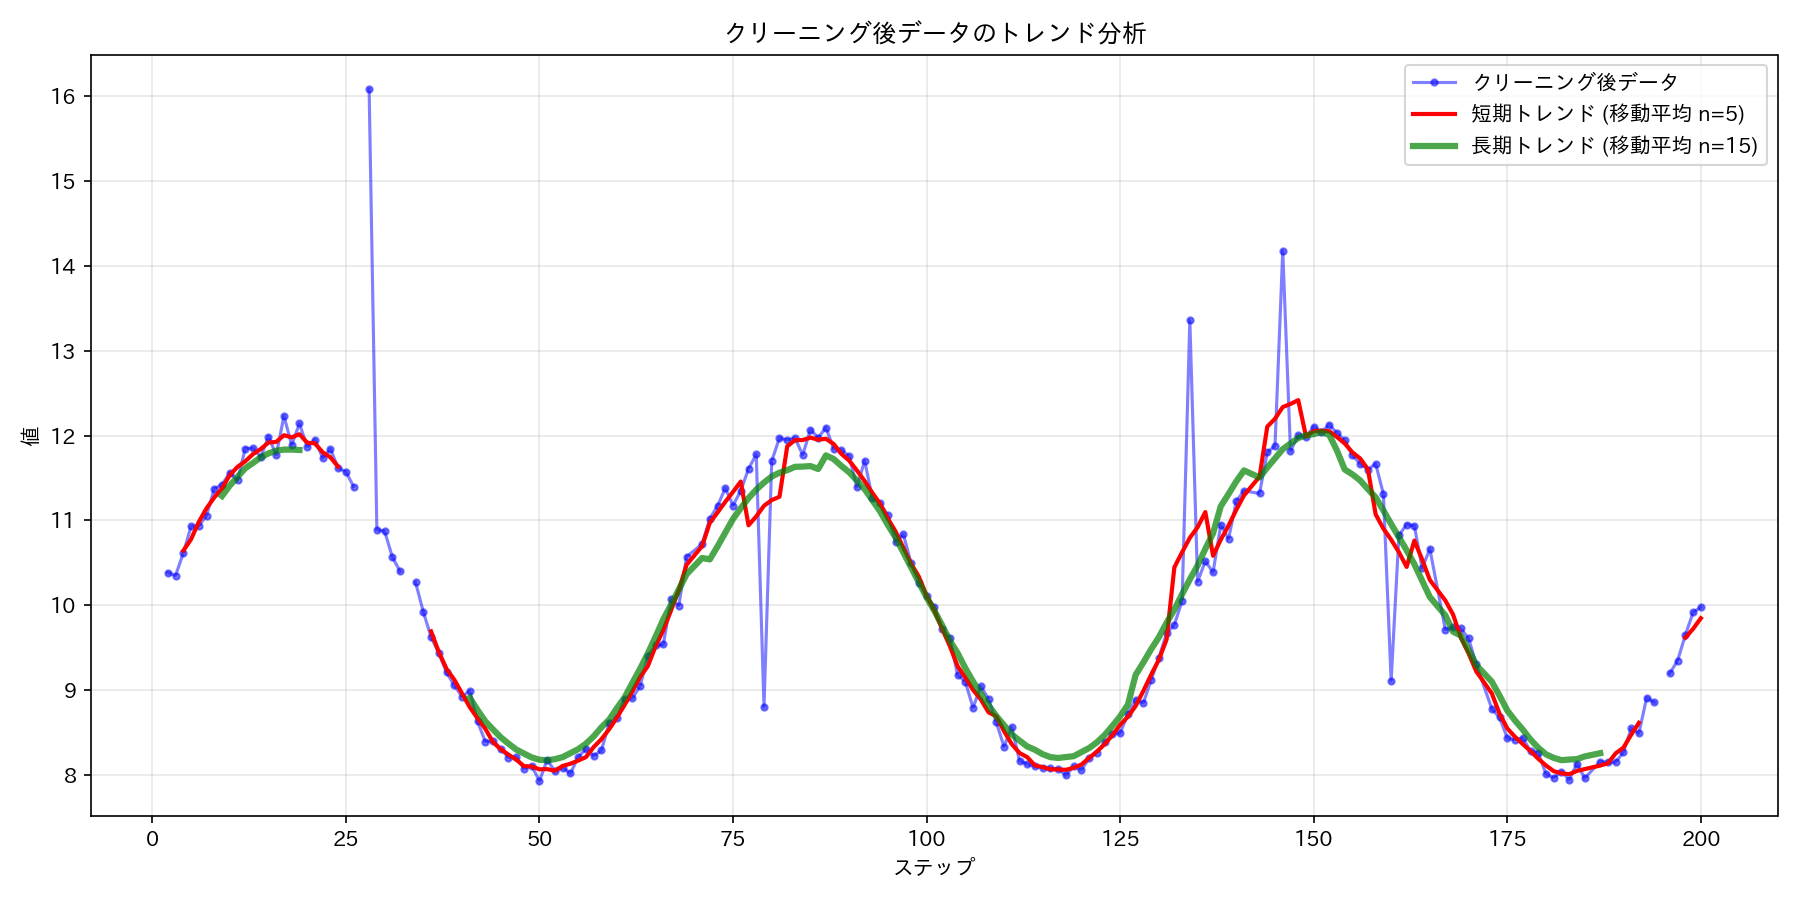
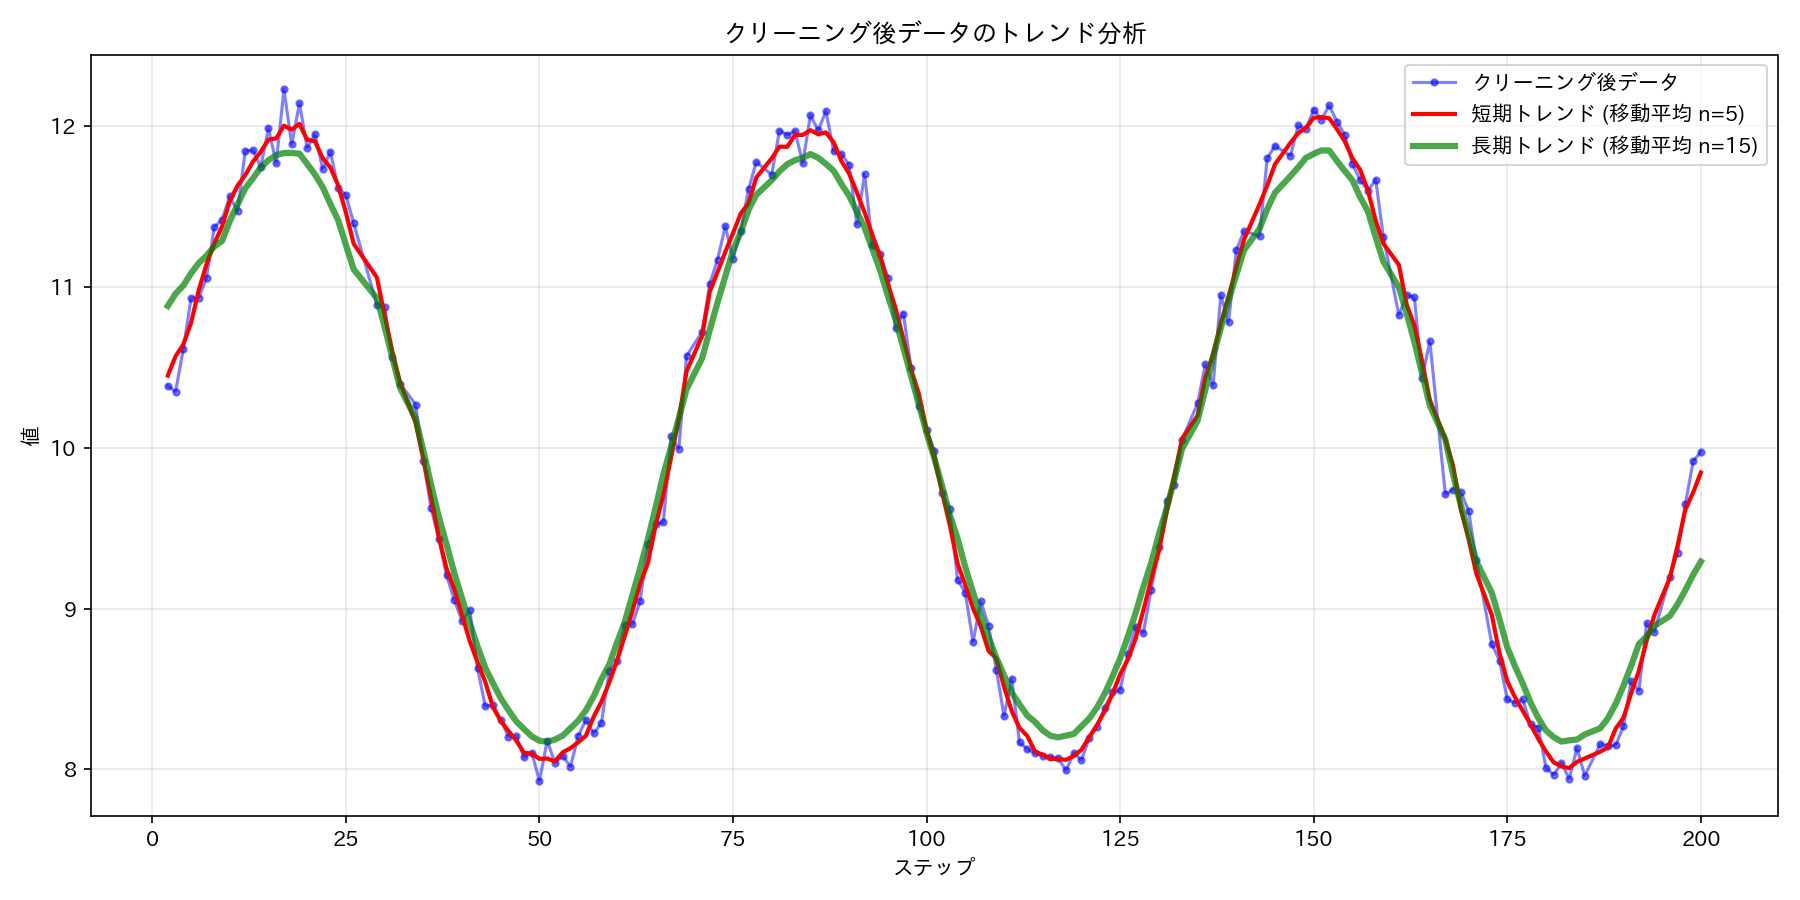
refactor: Update filter functions to handle NaN values and improve documentation

diff --git a/examples/advance/01_outlier_analysis_visualization.py b/examples/advance/01_outlier_analysis_visualization.py
@@ -46,7 +46,7 @@ def create_sample_data_with_outliers(
     """異常値を含むサンプルデータを生成します
 
     正弦波をベースに、指定された割合でランダムな位置に異常値を挿入します。
-    また、一部のデータにはNone値（欠損値）も挿入します。
+    また、一部のデータにはnp.nan値（欠損値）も挿入します。
 
     Args:
         size: データのサイズ
@@ -79,11 +79,11 @@ def create_sample_data_with_outliers(
                 amplitude + np.random.rand() * amplitude * 2
             )  # 下側の異常値
 
-    # 一部にNone値（欠損値）を入れる
+    # 一部にnp.nan値（欠損値）を入れる
     none_indices = np.random.choice(size, int(size * 0.02), replace=False)
     for idx in none_indices:
-        if idx not in outlier_indices:  # 異常値とNone値が重複しないようにする
-            data[idx] = None
+        if idx not in outlier_indices:  # 異常値とnp.nan値が重複しないようにする
+            data[idx] = np.nan
 
     return data.tolist(), outlier_indices
 
@@ -142,11 +142,20 @@ print(f"- 移動平均(window=21)の最初の5件: {result1['ma21'].values[:5]}"
 # ----------------------------------------------------
 print("\n3. 異常値の検出と可視化")
 
+# NaN値が含まれる場合、事前にfilter_out_noneでフィルタリング
+filtered_collection = collection1.ops.filter_out_none(columns=["data"]).end()
+
+print(f"- 元データの行数: {len(collection1)}")
+print(f"- NaN値除去後の行数: {len(filtered_collection)}")
+print(
+    f"- 除去されたNaN値のデータポイント数: {len(collection1) - len(filtered_collection)}"
+)
+
 # デバッグ情報を追加
 print("\n--- デバッグ情報 ---")
-print(f"データサイズ: {len(collection1['data'].values)}")
+print(f"データサイズ: {len(filtered_collection['data'].values)}")
 print(
-    f"None値の数: {collection1['data'].values.count(None) if collection1['data'].values.count(None) is not None else 0}"
+    f"None値の数: {filtered_collection['data'].values.count(None) if filtered_collection['data'].values.count(None) is not None else 0}"
 )
 
 # 2つの異なるしきい値で異常値を可視化
@@ -159,7 +168,7 @@ ax2 = plt.subplot(2, 1, 2)  # 2つ目のサブプロット
 # 厳しいしきい値と緩いしきい値で異常値検出を行う
 # メソッドチェーンを使用し、axパラメータを渡してplt.showを自動呼び出しさせない
 result_vis = (
-    collection1.ops
+    filtered_collection.ops.filter_out_none(columns=["data"])  # NaN値を除去
     # 最初のサブプロットに厳しいしきい値での可視化
     .visualize_outliers(
         column="data",
@@ -175,7 +184,7 @@ result_vis = (
     .visualize_outliers(
         column="data",
         window_size=15,
-        threshold=0.7,  # 緩いしきい値
+        threshold=0.9,  # 緩いしきい値
         plot_type="line",
         highlight_color="orange",
         outlier_marker="^",
@@ -212,11 +221,15 @@ print(f"- 検出された異常値の数（緩いしきい値）: {loose_outlier
 print("\n4. 異常値の除去と効果の確認")
 
 # 異常値を除去（データセット2を使用）
-result_with_removal = collection2.ops.remove_outliers(
-    column="data",
-    window_size=15,
-    threshold=0.3,
-).end()
+result_with_removal = (
+    collection2.ops.filter_out_none(columns=["data"])
+    .remove_outliers(
+        column="data",
+        window_size=15,
+        threshold=0.1,
+    )
+    .end()
+)
 
 # 除去後のデータ数を確認
 print(f"- 元データの行数: {len(collection2)}")
@@ -392,14 +405,14 @@ ax2 = plt.subplot(2, 1, 2)  # 非対称エッジ処理用
 # 対称および非対称エッジ処理を1つのチェーンで比較
 # axを渡すことでplt.showは呼び出されない
 comparison_result = (
-    collection2.ops
+    collection2.ops.filter_out_none(columns=["data"])  # NaN値を除去
     # まずステップ範囲でサブセット抽出
     .search_by_step_range(min=50, max=100)
     # 対称エッジ処理による異常値検出
     .visualize_outliers(
         column="data",
-        window_size=7,
-        threshold=0.3,
+        window_size=15,
+        threshold=0.1,
         edge_handling="symmetric",  # 対称エッジ処理
         highlight_color="red",
         ax=ax1,  # 明示的にaxを渡すのでplt.showは呼ばれない
@@ -409,8 +422,8 @@ comparison_result = (
     # 非対称エッジ処理による異常値検出
     .visualize_outliers(
         column="data",
-        window_size=7,
-        threshold=0.3,
+        window_size=15,
+        threshold=0.1,
         edge_handling="asymmetric",  # 非対称エッジ処理
         highlight_color="magenta",
         ax=ax2,  # 明示的にaxを渡すのでplt.showは呼ばれない

diff --git a/src/tascpy/operations/core/filters.py b/src/tascpy/operations/core/filters.py
@@ -59,16 +59,16 @@ def filter_by_value(
 def filter_out_none(
     collection: ColumnCollection, columns: Optional[List[str]] = None, mode: str = "any"
 ) -> ColumnCollection:
-    """None 値を含む行をフィルタリングして除外します
+    """None値およびNaN値を含む行をフィルタリングして除外します
 
-    指定された列に None 値を含む行を除外した新しいコレクションを返します。
-    モードによって、いずれかの列が None の場合に除外するか、全ての列が None の場合に除外するかを選択できます。
+    指定された列にNone値またはNaN値を含む行を除外した新しいコレクションを返します。
+    モードによって、いずれかの列が欠損値の場合に除外するか、全ての列が欠損値の場合に除外するかを選択できます。
 
     Args:
         collection: ColumnCollection オブジェクト
         columns: フィルタリングする対象の列名リスト（デフォルトは None、すべての列が対象）
-        mode: フィルタリングモード 'any'（いずれかの列が None の行を除外）または
-              'all'（すべての列が None の行を除外）
+        mode: フィルタリングモード 'any'（いずれかの列が欠損値の行を除外）または
+              'all'（すべての列が欠損値の行を除外）
 
     Returns:
         ColumnCollection: フィルタリングされた ColumnCollection オブジェクト
@@ -77,6 +77,15 @@ def filter_out_none(
         ValueError: 不正なモードが指定された場合
         KeyError: 指定された列名が存在しない場合
     """
+    import math
+
+    try:
+        import numpy as np
+
+        HAS_NUMPY = True
+    except ImportError:
+        HAS_NUMPY = False
+
     if mode not in ["any", "all"]:
         raise ValueError("モードは'any'または'all'のいずれかである必要があります")
 
@@ -88,17 +97,40 @@ def filter_out_none(
         if col_name not in collection.columns:
             raise KeyError(f"列'{col_name}'が存在しません")
 
-    # Noneをフィルタリングするマスクを作成
+    # NoneとNaN値をチェックする関数
+    def is_valid_value(value):
+        # Noneチェック
+        if value is None:
+            return False
+
+        # NaNチェック（mathモジュール）
+        try:
+            if isinstance(value, float) and math.isnan(value):
+                return False
+        except (TypeError, ValueError):
+            pass
+
+        # NumpyのNaNチェック
+        if HAS_NUMPY:
+            try:
+                if isinstance(value, (float, np.number)) and np.isnan(value):
+                    return False
+            except (TypeError, ValueError):
+                pass
+
+        return True
+
+    # NoneとNaN値をフィルタリングするマスクを作成
     if mode == "any":
-        # いずれかの列がNoneの行を除外
+        # いずれかの列が欠損値の行を除外
         mask = [
-            all(collection[col_name][i] is not None for col_name in target_columns)
+            all(is_valid_value(collection[col_name][i]) for col_name in target_columns)
             for i in range(len(collection.step))
         ]
     else:  # mode == "all"
-        # すべての列がNoneの行を除外
+        # すべての列が欠損値の行を除外
         mask = [
-            any(collection[col_name][i] is not None for col_name in target_columns)
+            any(is_valid_value(collection[col_name][i]) for col_name in target_columns)
             for i in range(len(collection.step))
         ]
 

diff --git a/src/tascpy/typing/core.py b/src/tascpy/typing/core.py
@@ -57,16 +57,16 @@ Raises:
         columns: Optional[list[str]] = None,
         mode: str = 'any'
     ) -> "CoreCollectionOperations":
-        """None 値を含む行をフィルタリングして除外します
+        """None値およびNaN値を含む行をフィルタリングして除外します
 
-指定された列に None 値を含む行を除外した新しいコレクションを返します。
-モードによって、いずれかの列が None の場合に除外するか、全ての列が None の場合に除外するかを選択できます。
+指定された列にNone値またはNaN値を含む行を除外した新しいコレクションを返します。
+モードによって、いずれかの列が欠損値の場合に除外するか、全ての列が欠損値の場合に除外するかを選択できます。
 
 Args:
     collection: ColumnCollection オブジェクト
     columns: フィルタリングする対象の列名リスト（デフォルトは None、すべての列が対象）
-    mode: フィルタリングモード 'any'（いずれかの列が None の行を除外）または
-          'all'（すべての列が None の行を除外）
+    mode: フィルタリングモード 'any'（いずれかの列が欠損値の行を除外）または
+          'all'（すべての列が欠損値の行を除外）
 
 Returns:
     ColumnCollection: フィルタリングされた ColumnCollection オブジェクト
